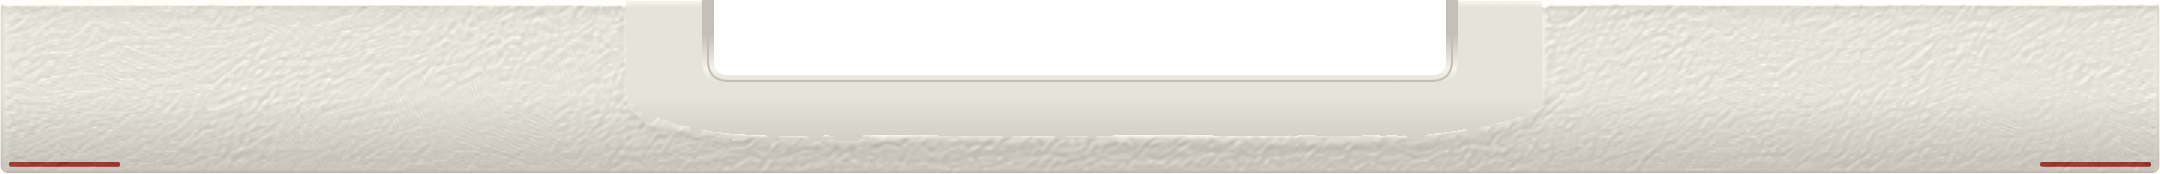
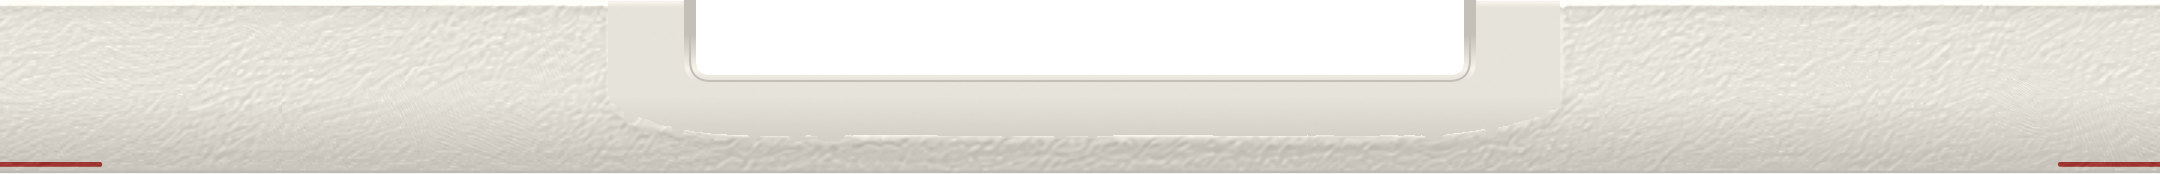
Neo Geo and PC Engine slot bars: the opening every bar has, the seated cart plus 16 (256)

diff --git a/tools/slot-bars/refit_hole.py b/tools/slot-bars/refit_hole.py
@@ -1,0 +1,60 @@
+#!/usr/bin/env python3
+"""Brings a slot bar's opening to the rule of every slot bar: the seated
+cart's width (240, cart.rs SEATED_W) plus 16, centred (232..488 of 720),
+as tools/pico8-mould/bar.py draws it.
+
+    python3 tools/slot-bars/refit_hole.py <bar> <hole width now> <cut1> <cut2>
+
+<bar> names assets/home/slot_{back,front}_<bar>{,_dark,_light}.png. The
+opening narrows (or widens) by the same number of columns taken out of
+(or repeated at) two plain strips inside it, at x = cut1 and cut2 (720
+units), so its corners, posts and screws keep their shape; the sides
+follow and the bar's outer columns are refilled from its own plastic
+(native_assets::refit_band repeats them on wider screens anyway).
+Neo Geo: 298 -> 256, PC Engine: 244 -> 256 (Siham 2026-11-28).
+"""
+import sys
+from pathlib import Path
+
+from PIL import Image
+
+ROOT = Path(__file__).resolve().parents[2]
+RULE = 256
+K = 3
+
+
+def refit(im, now, cut1, cut2):
+    w, h = im.size
+    d = round((now - RULE) / 2 * K)        # columns per side, + narrows
+    a, b = round(cut1 * K), round(cut2 * K)
+    if d > 0:   # take d columns out at each cut, pad d at each outer edge
+        left, mid, right = im.crop((0, 0, a, h)), im.crop((a + d, 0, b, h)), im.crop((b + d, 0, w, h))
+        out = Image.new(im.mode, (w, h))
+        out.paste(im.crop((0, 0, d, h)), (0, 0))
+        out.paste(left, (d, 0))
+        out.paste(mid, (d + a, 0))
+        out.paste(right, (d + b - d, 0))
+        out.paste(im.crop((w - d, 0, w, h)), (w - d, 0))
+        return out
+    d = -d      # repeat d columns at each cut, drop d at each outer edge
+    left, mid, right = im.crop((d, 0, a, h)), im.crop((a - d, 0, b + d, h)), im.crop((b, 0, w - d, h))
+    out = Image.new(im.mode, (w, h))
+    out.paste(left, (0, 0))
+    out.paste(mid, (a - d, 0))
+    out.paste(right, (b + d, 0))
+    return out
+
+
+def main():
+    bar, now, cut1, cut2 = sys.argv[1], float(sys.argv[2]), float(sys.argv[3]), float(sys.argv[4])
+    for part in ("back", "front"):
+        for theme in ("", "_dark", "_light"):
+            path = ROOT / "assets/home" / f"slot_{part}_{bar}{theme}.png"
+            im = Image.open(path)
+            im.load()
+            refit(im.convert("RGBA"), now, cut1, cut2).save(path, optimize=True)
+            print("refitted", path.name)
+
+
+if __name__ == "__main__":
+    main()
